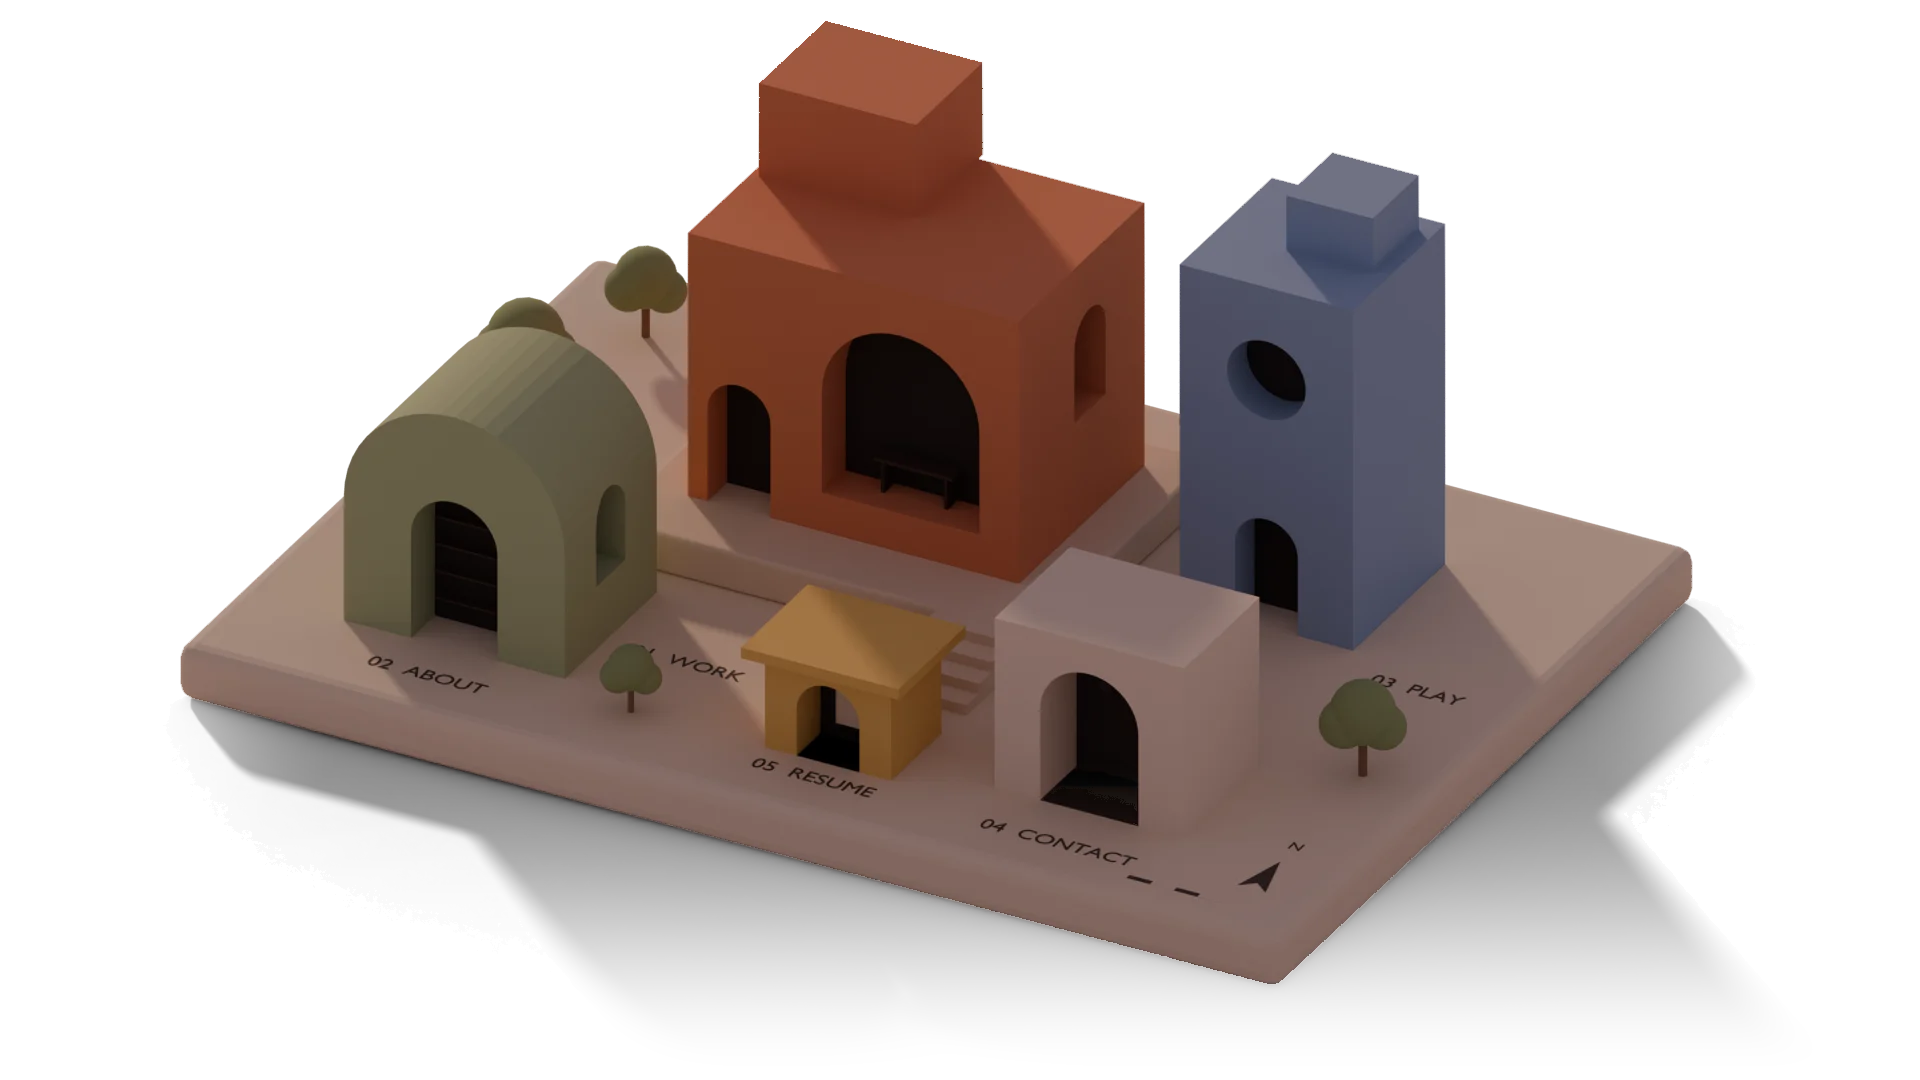
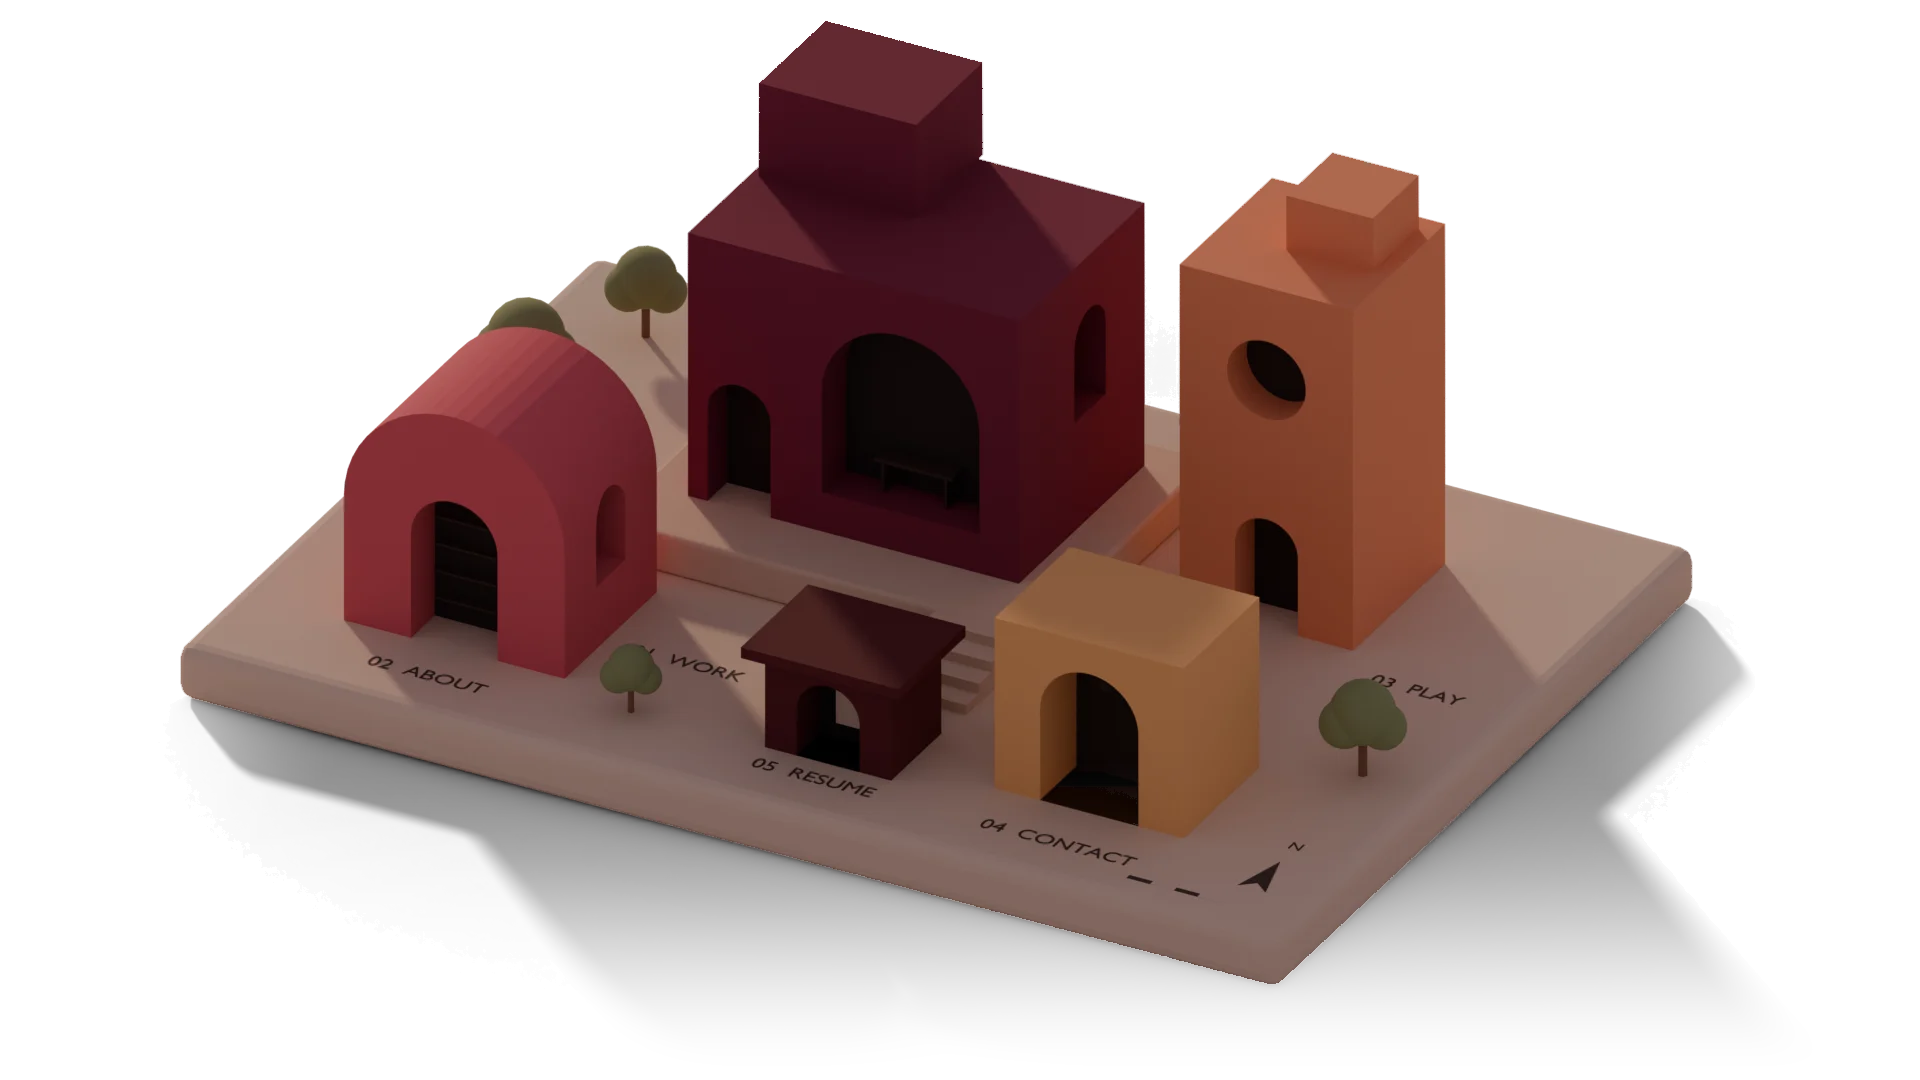
Warm palette: oxblood, burgundy, rose, coral, apricot
- Site frame: burgundy accent, warm ink and muted text, warm borders
- Each room gets its palette colour, a text-safe ink and a soft header wash
  (Work burgundy, About rose, Play coral, Contact apricot, Resume oxblood)
- Site model re-rendered with the buildings in the new palette
- Homepage hero ground and kicker warmed to match

Claude-Session: https://claude.ai/code/session_01Bu6cSXwTKdwSybwnzuihmC

Changed region(s): [[0.1562, 0.0, 0.75, 0.7944]]

diff --git a/app/components/SiteModelHero.tsx b/app/components/SiteModelHero.tsx
@@ -116,20 +116,20 @@ export default function SiteModelHero() {
 
   return (
     <main
-      className="relative -mt-20 overflow-hidden bg-[linear-gradient(180deg,#efe4d8_0%,#f3ebe2_70%,#f6f1ea_100%)] px-6 pt-24 md:px-12"
+      className="relative -mt-20 overflow-hidden bg-[linear-gradient(180deg,#f4e1dc_0%,#f8ece6_70%,var(--background)_100%)] px-6 pt-24 md:px-12"
       aria-labelledby="hero-heading"
     >
       <div className="mx-auto grid min-h-[calc(100svh-6rem)] w-full max-w-6xl grid-cols-1 content-center items-center gap-6 pb-10 lg:grid-cols-12 lg:gap-4">
         {/* Copy */}
         <div className="relative z-10 lg:col-span-4">
-          <p className="font-mono text-[11px] uppercase tracking-[0.22em] text-[#8a6a50]">{hero.kicker}</p>
+          <p className="font-mono text-[11px] uppercase tracking-[0.22em] text-[#8a3b3f]">{hero.kicker}</p>
           <h1
             id="hero-heading"
             className="font-serif mt-5 text-[2.6rem] font-medium leading-[1.04] tracking-tight text-[var(--foreground)] md:text-[3.6rem]"
           >
             {hero.headline[0]}
             <br />
-            {hero.headline[1]} <em className="text-[#b5603a]">{hero.headline[2]}</em>
+            {hero.headline[1]} <em className="text-[var(--rose)]">{hero.headline[2]}</em>
           </h1>
 
           <div className="mt-6 flex items-center gap-2.5">
@@ -139,13 +139,13 @@ export default function SiteModelHero() {
             </p>
           </div>
 
-          <p className="mt-6 max-w-sm text-base leading-relaxed text-[#6f655d]">{hero.bio}</p>
+          <p className="mt-6 max-w-sm text-base leading-relaxed text-[var(--muted)]">{hero.bio}</p>
 
           <div className="mt-8 flex flex-wrap items-center gap-x-8 gap-y-3">
             <button
               type="button"
               onClick={() => enter("work")}
-              className="focus-ring rounded-full border border-[var(--foreground)] px-5 py-2.5 text-sm font-medium text-[var(--foreground)] transition-colors hover:bg-[var(--foreground)] hover:text-[#f3ebe2]"
+              className="focus-ring rounded-full border border-[var(--foreground)] px-5 py-2.5 text-sm font-medium text-[var(--foreground)] transition-colors hover:bg-[var(--foreground)] hover:text-[var(--background)]"
             >
               Explore my work ↗
             </button>
@@ -239,7 +239,7 @@ export default function SiteModelHero() {
           >
             {active ? (
               <p className="text-[var(--foreground)]">
-                <span className="font-mono text-xs tracking-wider text-[#8a6a50]">{active.number}</span>{" "}
+                <span className="font-mono text-xs tracking-wider text-[#8a3b3f]">{active.number}</span>{" "}
                 <span className="font-medium">{active.label}</span>
                 <span className="text-[var(--muted)]"> · {active.caption}</span>
               </p>
@@ -253,7 +253,7 @@ export default function SiteModelHero() {
               <button
                 type="button"
                 onClick={() => writeLights([])}
-                className="focus-ring text-xs text-[#8a6a50] underline underline-offset-4"
+                className="focus-ring text-xs text-[#8a3b3f] underline underline-offset-4"
               >
                 Lights off
               </button>

diff --git a/app/data/portfolio.ts b/app/data/portfolio.ts
@@ -7,14 +7,19 @@ export const RESUME_URL = "";
 export type RoomKey = "work" | "about" | "play" | "contact" | "resume";
 
 // One "room" per building on the site model. `key` must match the Blender export
-// (public/model/light-<key>.webp + hotspots.json). `color` tints that page.
+// (public/model/light-<key>.webp + hotspots.json).
+// `color` is the building's palette colour (key plan, large marks). `ink` is a
+// darker, text-safe version (4.5:1+ on the page and its header). `tint` is the
+// soft wash at the top of that room's page.
 export const rooms = {
   work: {
     number: "01",
     label: "Work",
     caption: "Selected case studies",
     href: "/work",
-    color: "#b5603a",
+    color: "#6a1229",
+    ink: "#6a1229",
+    tint: "#f2dadd",
     title: "Selected work",
     intro: "Case studies in designing for people navigating complex, high-stakes moments.",
   },
@@ -23,7 +28,9 @@ export const rooms = {
     label: "About",
     caption: "The architect turned designer",
     href: "/about",
-    color: "#6d7c4f",
+    color: "#c04e5c",
+    ink: "#a23a4a",
+    tint: "#f7dfe1",
     title: "A little about me",
     intro: "Trained as an architect, now designing digital products — still obsessed with structure, space and detail.",
   },
@@ -32,7 +39,9 @@ export const rooms = {
     label: "Play",
     caption: "XR, Unity and side experiments",
     href: "/play",
-    color: "#56709a",
+    color: "#f0885e",
+    ink: "#a84a26",
+    tint: "#fce3d7",
     title: "Play",
     intro: "Experiments in XR, gesture, voice and real-time 3D — where I try things before I know they'll work.",
   },
@@ -41,7 +50,9 @@ export const rooms = {
     label: "Contact",
     caption: "Say hello",
     href: "/contact",
-    color: "#9a7458",
+    color: "#f0a262",
+    ink: "#93531a",
+    tint: "#fdecd8",
     title: "Let's talk.",
     intro: "Open to full-time roles, freelance projects, and coffee chats.",
   },
@@ -50,7 +61,9 @@ export const rooms = {
     label: "Resume",
     caption: RESUME_URL ? "Opens in a new tab ↗" : "Coming soon",
     href: RESUME_URL,
-    color: "#b48a2e",
+    color: "#4a0a10",
+    ink: "#4a0a10",
+    tint: "#eedbdb",
     title: "Resume",
     intro: "",
   },
@@ -62,6 +75,8 @@ type Room = {
   caption: string;
   href: string;
   color: string;
+  ink: string;
+  tint: string;
   title: string;
   intro: string;
 };

diff --git a/app/components/PageShell.tsx b/app/components/PageShell.tsx
@@ -22,11 +22,11 @@ export default function PageShell({
 }) {
   const r = rooms[room];
   return (
-    <div style={{ "--room": r.color } as CSSProperties}>
-      <header className="-mt-20 bg-[linear-gradient(180deg,color-mix(in_srgb,var(--room)_14%,#f6f1ea)_0%,var(--background)_100%)] px-6 pb-14 pt-32 md:px-12 md:pb-20 md:pt-40">
+    <div style={{ "--room": r.color, "--room-ink": r.ink, "--room-tint": r.tint } as CSSProperties}>
+      <header className="-mt-20 bg-[linear-gradient(180deg,var(--room-tint)_0%,var(--background)_100%)] px-6 pb-14 pt-32 md:px-12 md:pb-20 md:pt-40">
         <div className="mx-auto flex max-w-6xl flex-col-reverse gap-8 md:flex-row md:items-end md:justify-between md:gap-10">
           <div className="max-w-2xl">
-            <p className="font-mono text-[11px] uppercase tracking-[0.22em] text-[var(--room)]">
+            <p className="font-mono text-[11px] uppercase tracking-[0.22em] text-[var(--room-ink)]">
               {kicker ?? `${r.number} · ${r.label}`}
             </p>
             <h1 className="font-serif mt-4 text-[2.6rem] font-medium leading-[1.05] tracking-tight text-[var(--foreground)] md:text-[3.75rem]">

diff --git a/app/play/page.tsx b/app/play/page.tsx
@@ -10,11 +10,11 @@ export default function PlayPage() {
       <ul className="grid grid-cols-1 gap-x-10 gap-y-8 md:grid-cols-2">
         {portfolio.play.map((item, i) => (
           <li key={item.id} className="flex gap-5 border-b border-[var(--border)] pb-8">
-            <span className="pt-1 font-mono text-xs text-[var(--room)]">P-{String(i + 1).padStart(2, "0")}</span>
+            <span className="pt-1 font-mono text-xs text-[var(--room-ink)]">P-{String(i + 1).padStart(2, "0")}</span>
             <div>
               <h2 className="text-lg font-semibold tracking-tight">{item.name}</h2>
               <p className="mt-1.5 text-sm leading-relaxed text-[var(--muted)]">{item.description}</p>
-              <p className="mt-3 text-[11px] uppercase tracking-[0.16em] text-[var(--room)]">{item.tags.join(" · ")}</p>
+              <p className="mt-3 text-[11px] uppercase tracking-[0.16em] text-[var(--room-ink)]">{item.tags.join(" · ")}</p>
             </div>
           </li>
         ))}

diff --git a/app/globals.css b/app/globals.css
@@ -1,12 +1,19 @@
 @import "tailwindcss";
 
 :root {
-  --background: #fafaf8;
-  --foreground: #1a1a1a;
-  --muted: #888888;
-  --accent: #3d7a74;
+  /* Warm palette: oxblood → burgundy → rose → coral → apricot */
+  --oxblood: #4a0a10;
+  --burgundy: #6a1229;
+  --rose: #c04e5c;
+  --coral: #f0885e;
+  --apricot: #f0a262;
+
+  --background: #faf9f6;
+  --foreground: #2a1418;
+  --muted: #6e5a5c; /* 6:1 on background */
+  --accent: var(--burgundy); /* 11.5:1 on background */
   --surface: #ffffff;
-  --border: #e8e8e8;
+  --border: #ebdfdc;
   --font-serif: "Fraunces", ui-serif, Georgia, serif;
   --font-body: "Plus Jakarta Sans", ui-sans-serif, system-ui, sans-serif;
   --font-hand: "Caveat", cursive;

diff --git a/app/contact/page.tsx b/app/contact/page.tsx
@@ -23,7 +23,7 @@ export default function ContactPage() {
               className="focus-ring group flex items-baseline justify-between gap-6 border-b border-[var(--border)] py-6 first:border-t"
             >
               <span className="font-mono text-[10px] uppercase tracking-[0.18em] text-[var(--muted)]">{l.label}</span>
-              <span className="font-serif text-xl text-[var(--foreground)] transition-colors group-hover:text-[var(--room)] md:text-2xl">
+              <span className="font-serif text-xl text-[var(--foreground)] transition-colors group-hover:text-[var(--room-ink)] md:text-2xl">
                 {l.value} {l.external ? "↗" : "→"}
               </span>
             </a>

diff --git a/model/build_site_model.py b/model/build_site_model.py
@@ -62,11 +62,11 @@ M = {
     "ground": clay("Ground", "#efe3d6", bump=0.02),
     "plinth": clay("Plinth_Basswood", "#e8d5bd", bump=0.03),
     "terrace": clay("Terrace", "#e3cdb4"),
-    "work": clay("Clay_Work", "#d9825b"),
-    "about": clay("Clay_About", "#a9b98a"),
-    "play": clay("Clay_Play", "#8fa6c9"),
-    "contact": clay("Clay_Contact", "#ead7c3"),
-    "resume": clay("Clay_Resume", "#e2b864"),
+    "work": clay("Clay_Work", "#801c42"),
+    "about": clay("Clay_About", "#d95c6c"),
+    "play": clay("Clay_Play", "#f49a6e"),
+    "contact": clay("Clay_Contact", "#f4bc78"),
+    "resume": clay("Clay_Resume", "#5a111e"),
     "leaf": clay("Leaf", "#8a9c68", bump=0.15),
     "trunk": clay("Trunk", "#8a6a50"),
     "ink": clay("Ink", "#4a3b31", bump=0.0),
